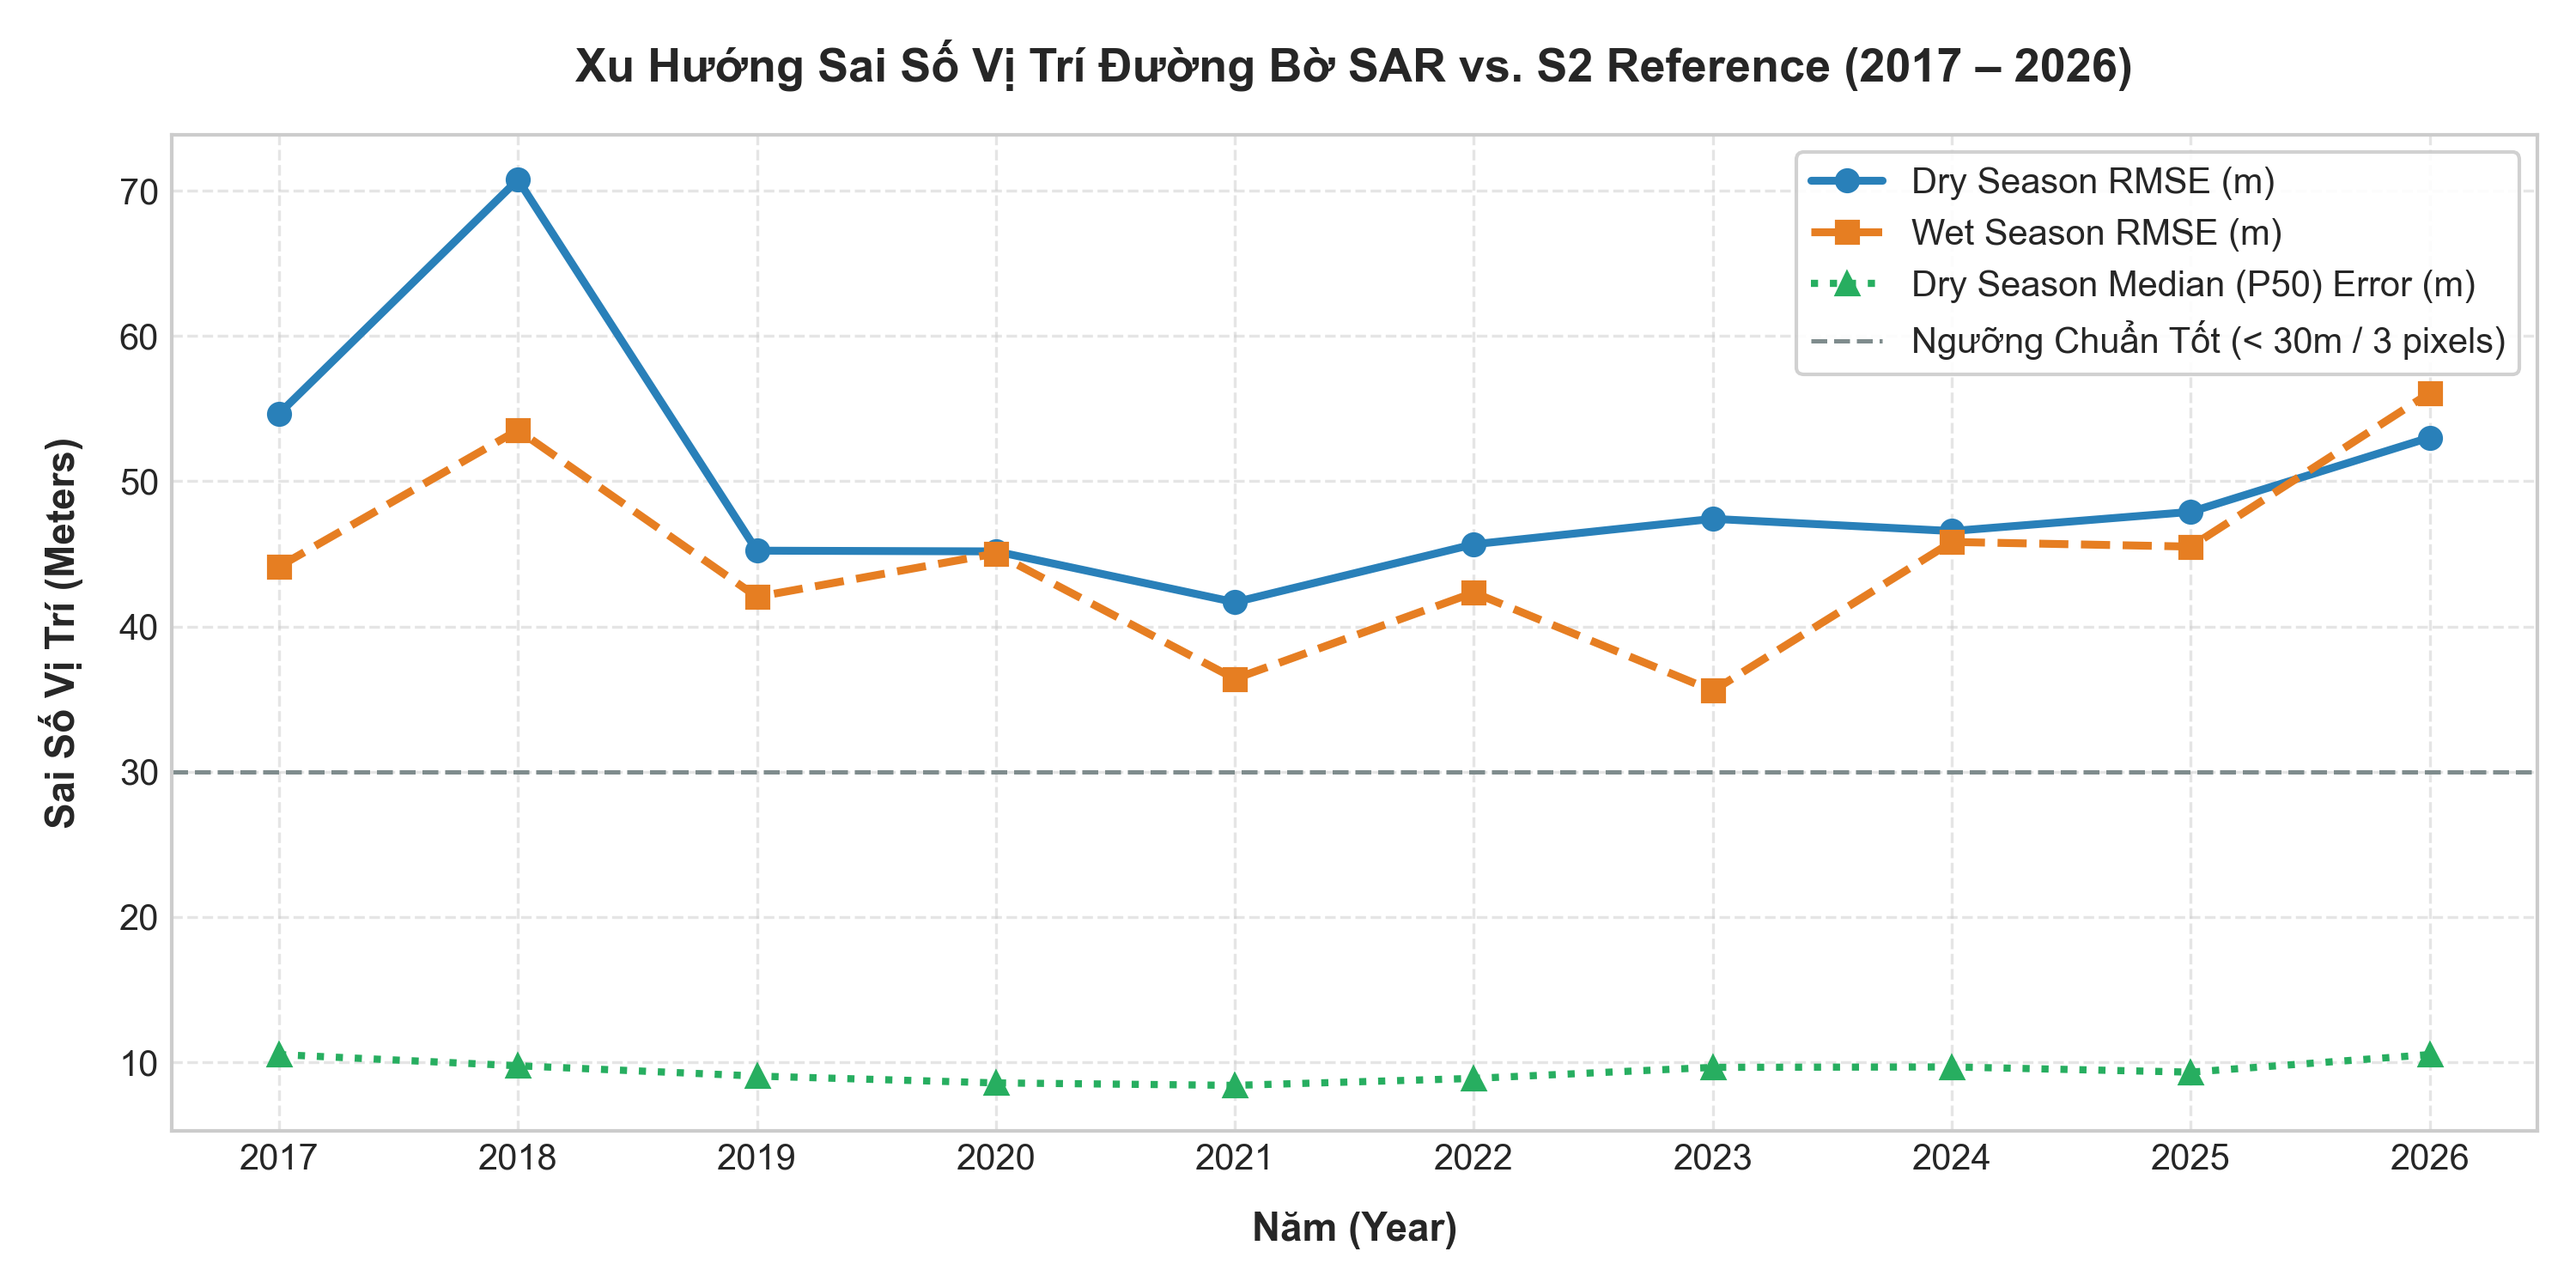
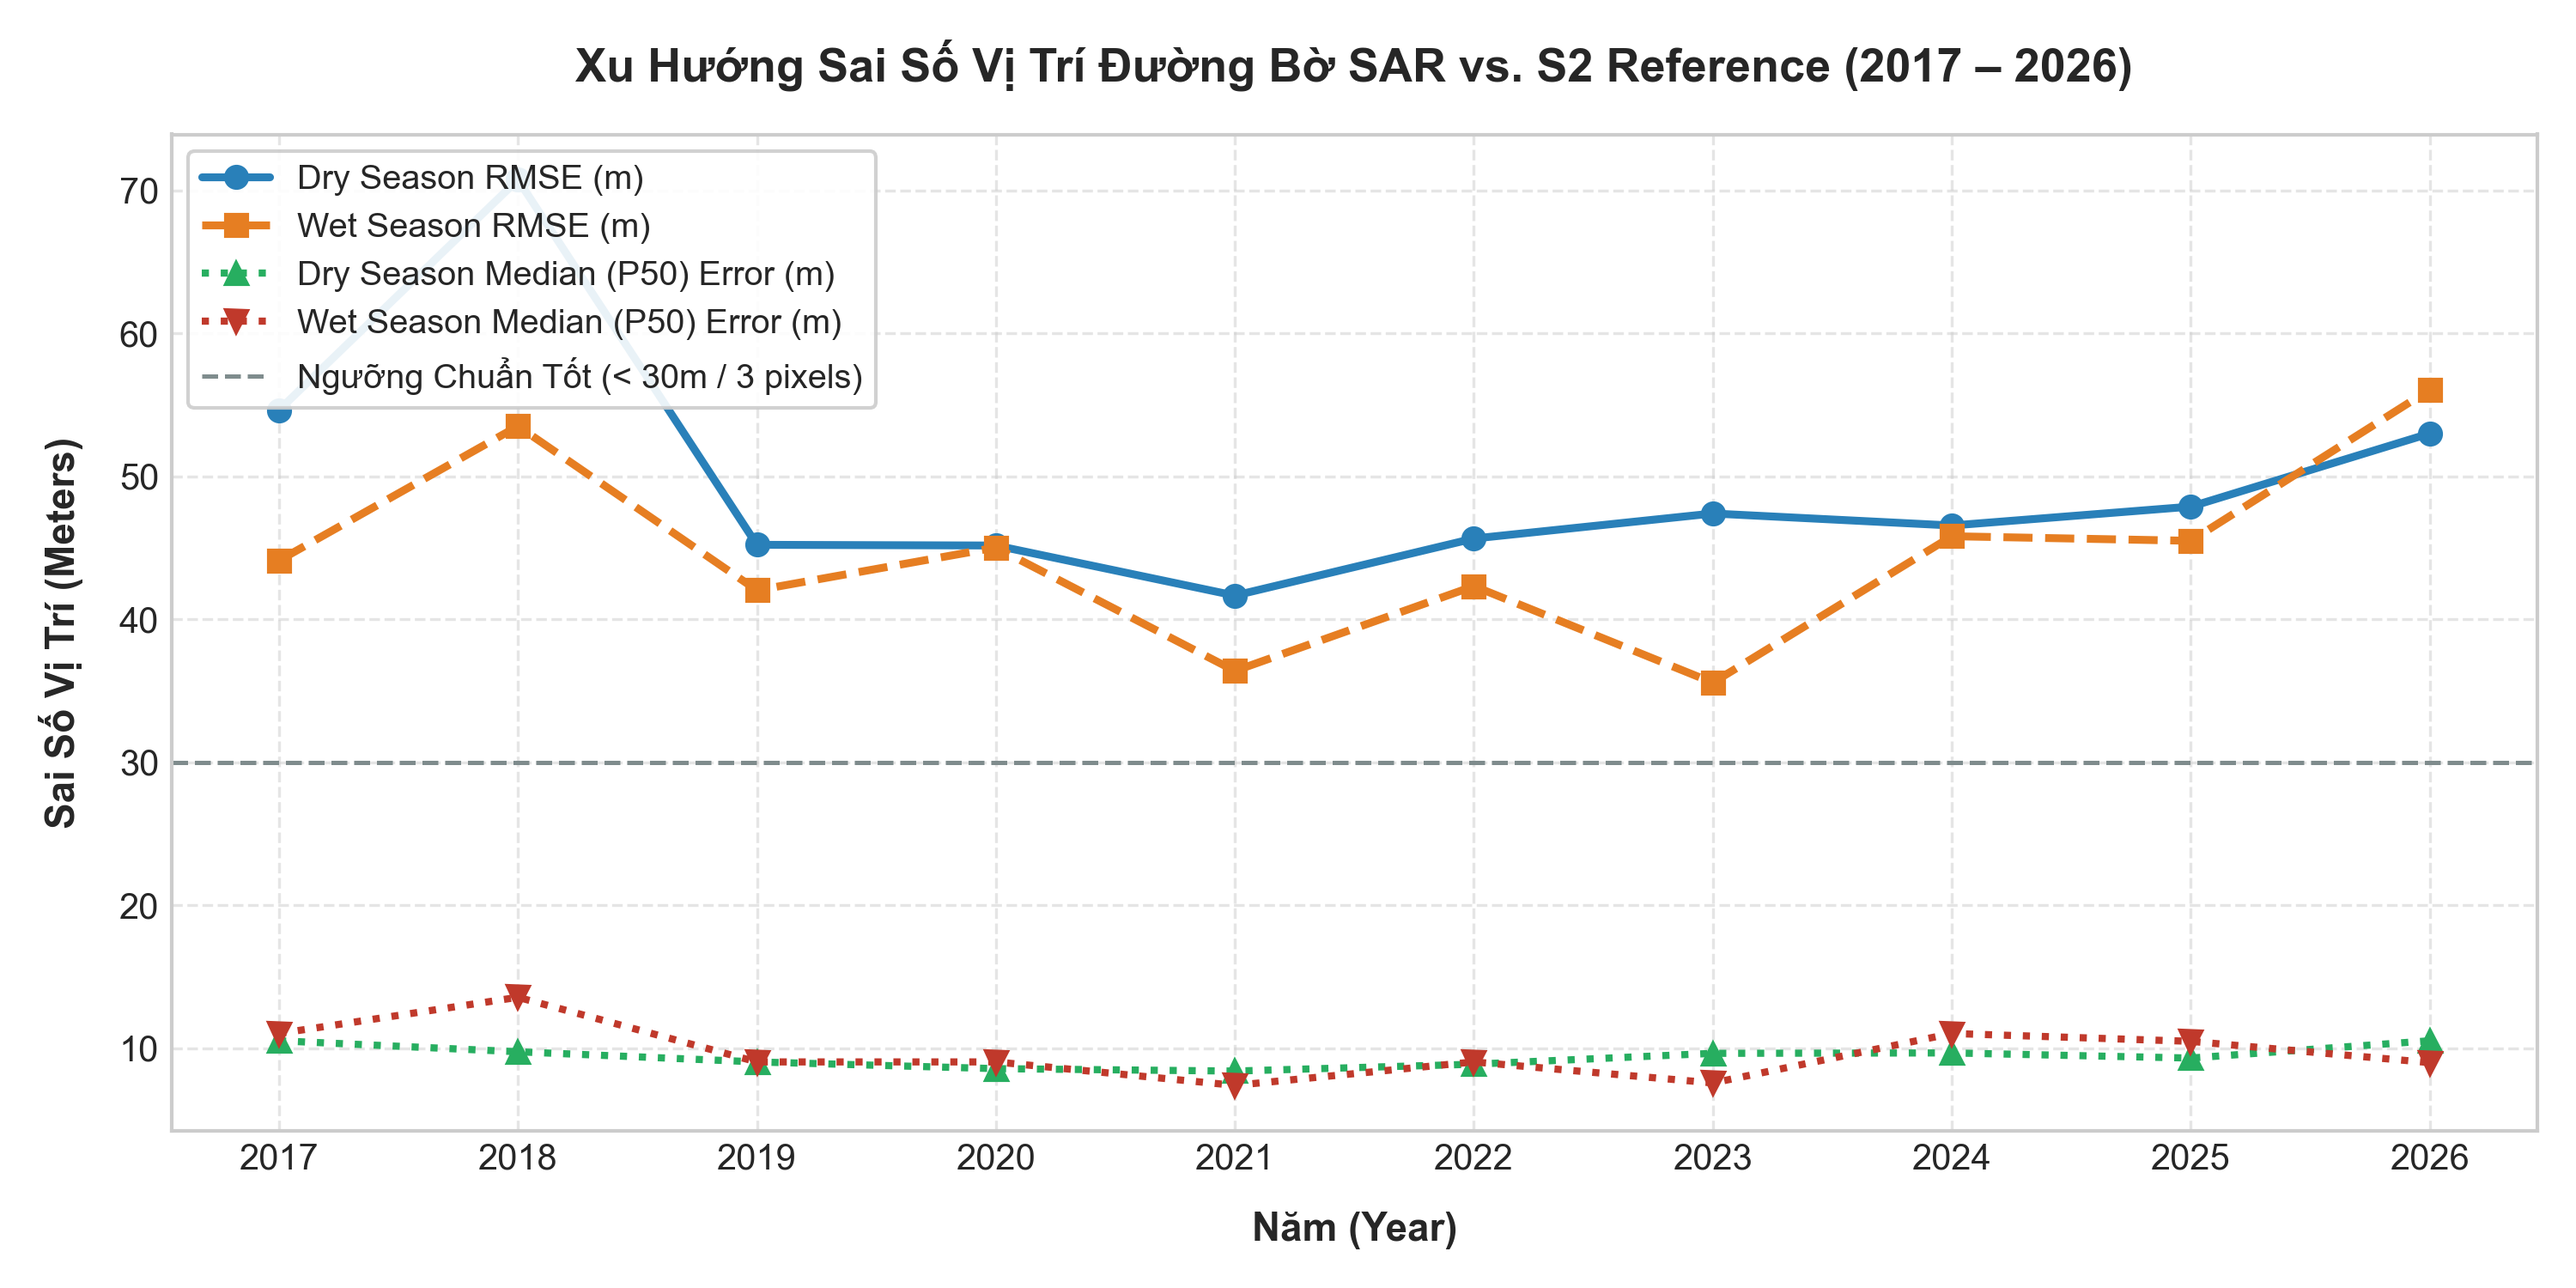
Update positional accuracy chart with Wet Season Median Error and combine legends for shoreline length/islands chart

diff --git a/scripts/plot_multiyear_trends.py b/scripts/plot_multiyear_trends.py
@@ -135,13 +135,14 @@ def generate_charts(df):
     ax.plot(dry_df['Year'], dry_df['RMSE (m)'], marker='o', linestyle='-', color='#2980b9', linewidth=2.2, label='Dry Season RMSE (m)')
     ax.plot(wet_df['Year'], wet_df['RMSE (m)'], marker='s', linestyle='--', color='#e67e22', linewidth=2.2, label='Wet Season RMSE (m)')
     ax.plot(dry_df['Year'], dry_df['Median Error (m)'], marker='^', linestyle=':', color='#27ae60', linewidth=2.0, label='Dry Season Median (P50) Error (m)')
+    ax.plot(wet_df['Year'], wet_df['Median Error (m)'], marker='v', linestyle=':', color='#c0392b', linewidth=2.0, label='Wet Season Median (P50) Error (m)')
     
     ax.axhline(y=30, color='#7f8c8d', linestyle='--', linewidth=1.2, label='Ngưỡng Chuẩn Tốt (< 30m / 3 pixels)')
     ax.set_title('Xu Hướng Sai Số Vị Trí Đường Bờ SAR vs. S2 Reference (2017 – 2026)', fontsize=13, fontweight='bold', pad=15)
     ax.set_xlabel('Năm (Year)', fontsize=11, fontweight='bold', labelpad=10)
     ax.set_ylabel('Sai Số Vị Trí (Meters)', fontsize=11, fontweight='bold', labelpad=10)
     ax.set_xticks(years)
-    ax.legend(frameon=True, facecolor='white', framealpha=0.9, fontsize=10)
+    ax.legend(frameon=True, facecolor='white', framealpha=0.9, fontsize=9.5, loc='upper left')
     ax.grid(True, linestyle='--', alpha=0.5)
     plt.tight_layout()
     fig_path2 = os.path.join(FIGURES_DIR, 'fig_multiyear_positional_accuracy_trend.png')
@@ -158,8 +159,8 @@ def generate_charts(df):
     l1 = ax1.plot(dry_plot_len['Year'], dry_plot_len['Shoreline Length (km)'], marker='o', color='#8e44ad', linewidth=2.2, label='Dry Season Length (km)')
     l2 = ax1.plot(wet_df['Year'], wet_df['Shoreline Length (km)'], marker='s', color='#34495e', linewidth=2.2, linestyle='--', label='Wet Season Length (km)')
     
-    ax2.bar(dry_df['Year'] - 0.15, dry_df['Island Count'], width=0.3, color='#f39c12', alpha=0.6, label='Dry Island Count')
-    ax2.bar(wet_df['Year'] + 0.15, wet_df['Island Count'], width=0.3, color='#d35400', alpha=0.6, label='Wet Island Count')
+    b1 = ax2.bar(dry_df['Year'] - 0.15, dry_df['Island Count'], width=0.3, color='#f39c12', alpha=0.6, label='Dry Island Count')
+    b2 = ax2.bar(wet_df['Year'] + 0.15, wet_df['Island Count'], width=0.3, color='#d35400', alpha=0.6, label='Wet Island Count')
     
     ax1.set_title('Biến Động Chiều Dài Đường Bờ Vector & Số Lượng Cù Lao/Bãi Nổi (2017 – 2026)', fontsize=13, fontweight='bold', pad=15)
     ax1.set_xlabel('Năm (Year)', fontsize=11, fontweight='bold', labelpad=10)
@@ -168,12 +169,18 @@ def generate_charts(df):
     ax1.set_xticks(years)
     ax2.set_yticks(range(0, 7))
     
+    # Combined legend for twin axes
+    lines1, labels1 = ax1.get_legend_handles_labels()
+    lines2, labels2 = ax2.get_legend_handles_labels()
+    ax1.legend(lines1 + lines2, labels1 + labels2, loc='upper right', frameon=True, facecolor='white', framealpha=0.9, fontsize=9.5)
+    
     ax1.grid(True, linestyle='--', alpha=0.4)
     plt.tight_layout()
     fig_path3 = os.path.join(FIGURES_DIR, 'fig_multiyear_shoreline_length_and_islands.png')
     plt.savefig(fig_path3, dpi=300)
     plt.close()
     print(f"  Saved: {fig_path3}")
+
 
 def main():
     df = parse_all_seasonal_data(2017, 2026)
